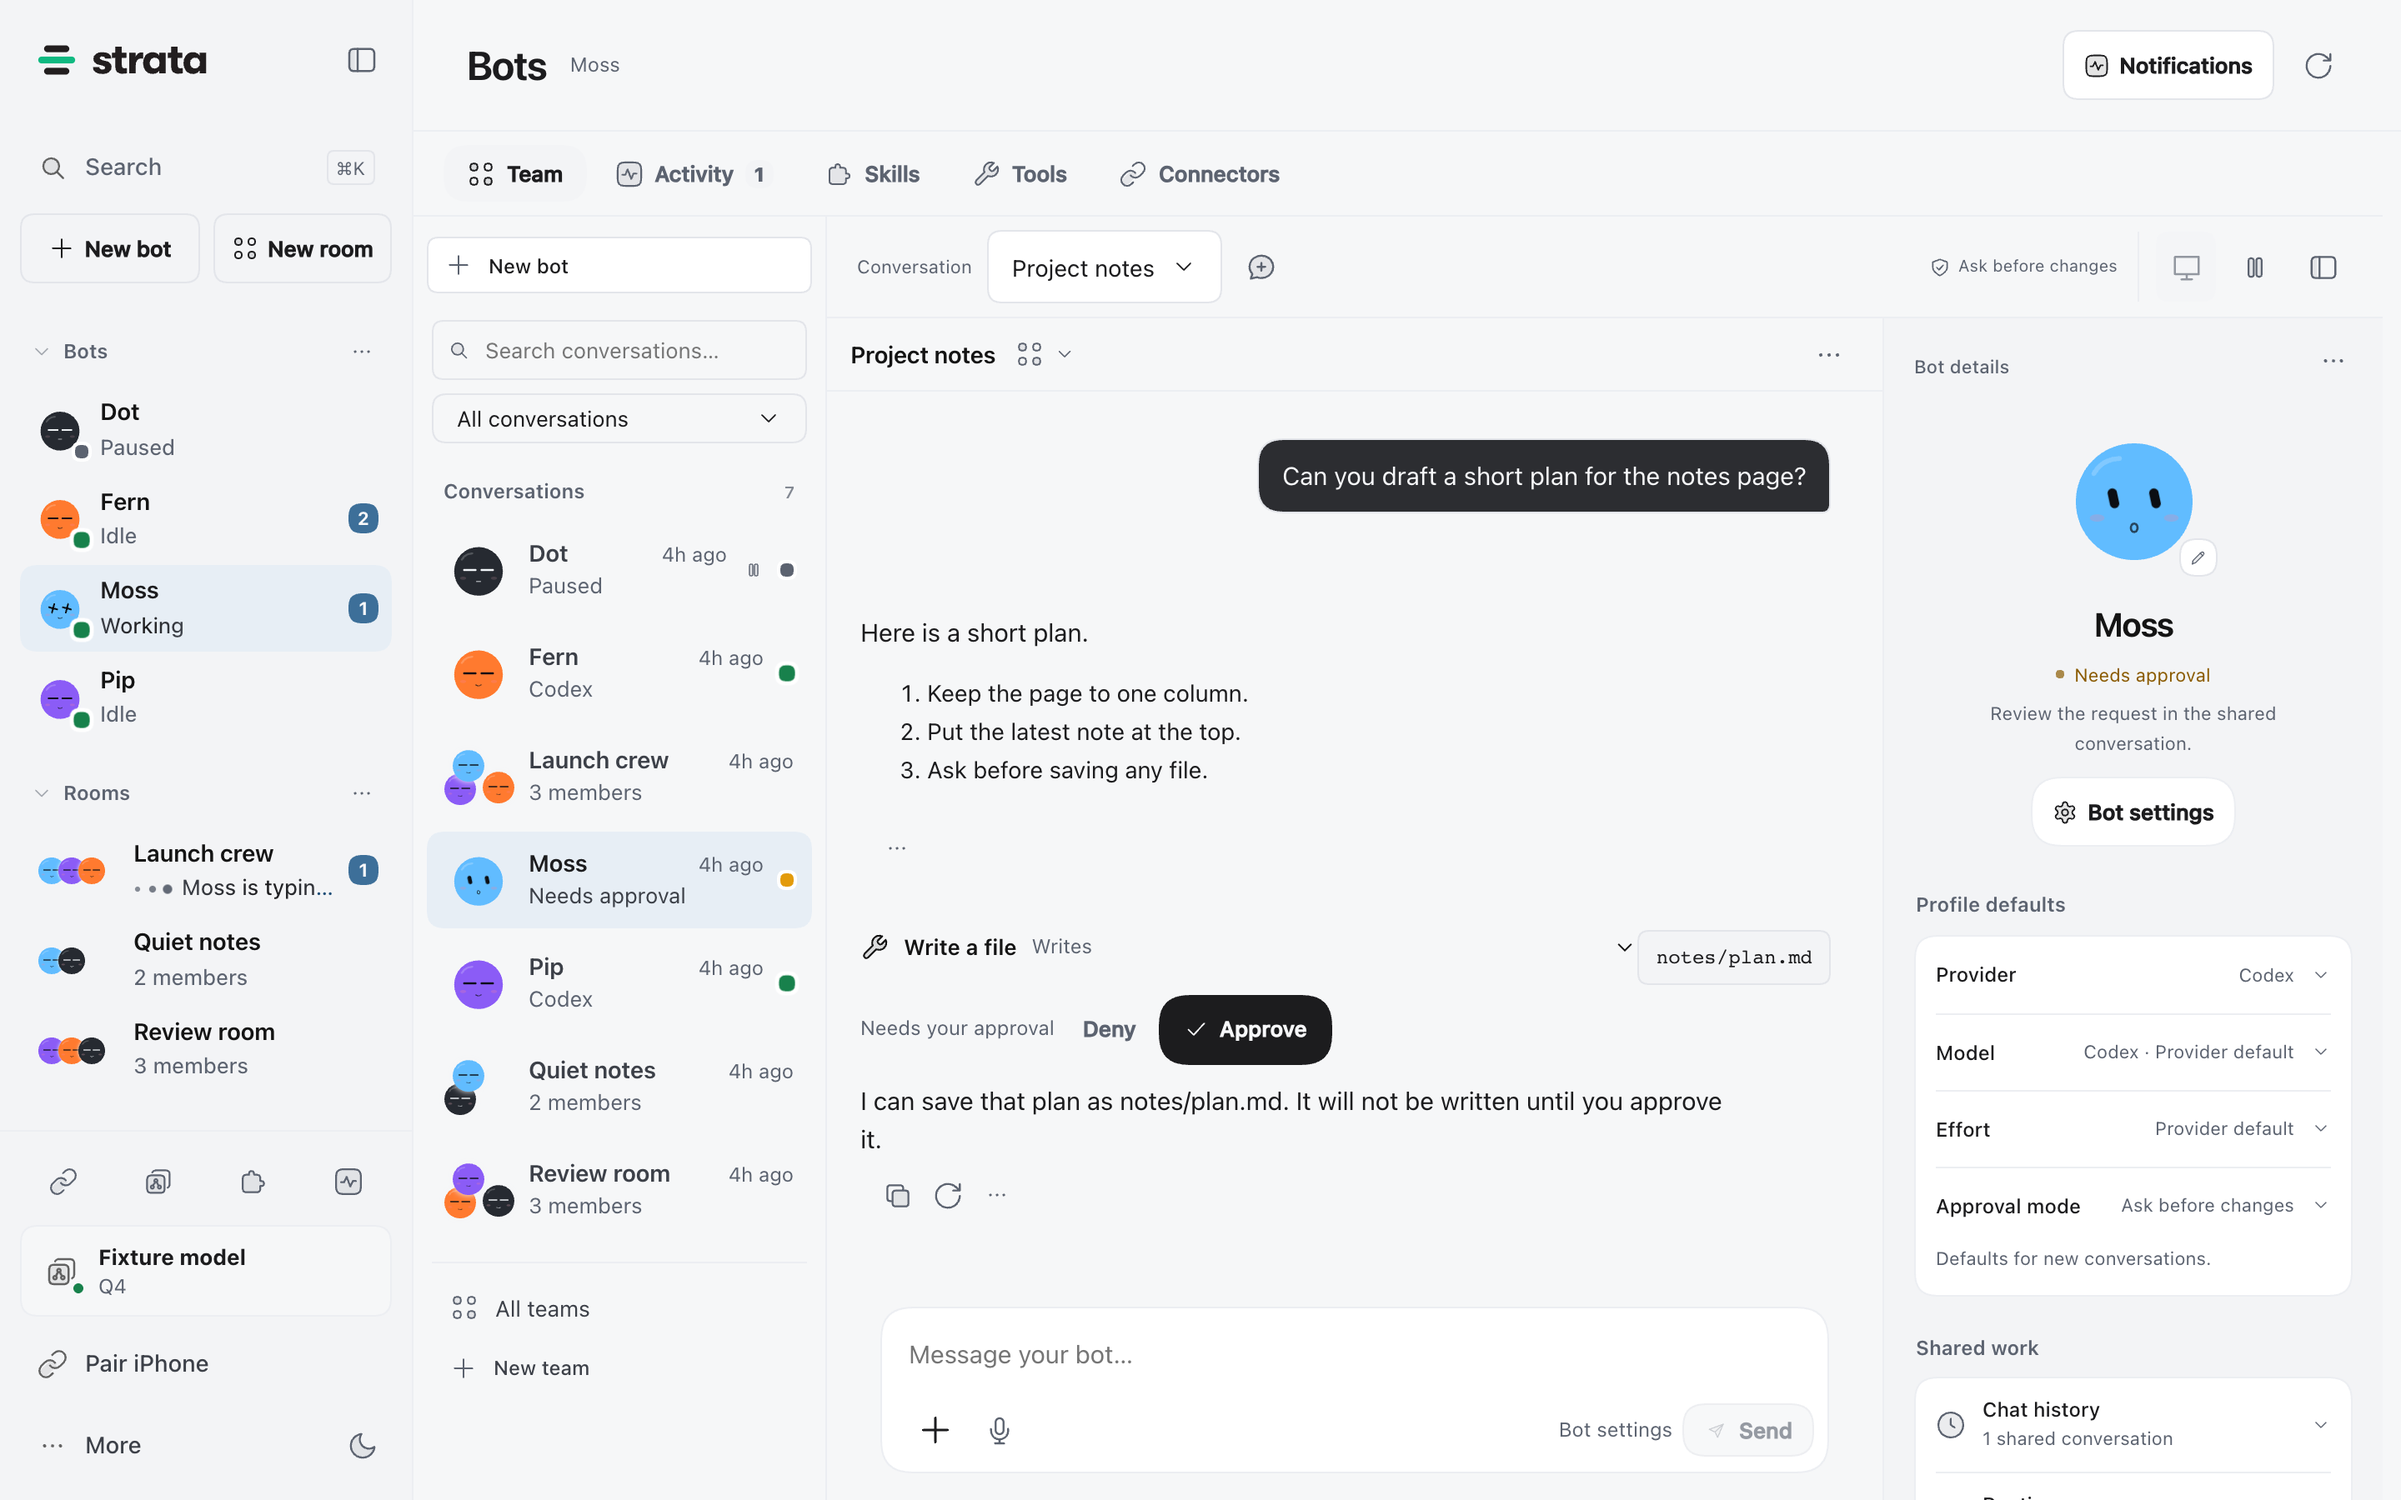
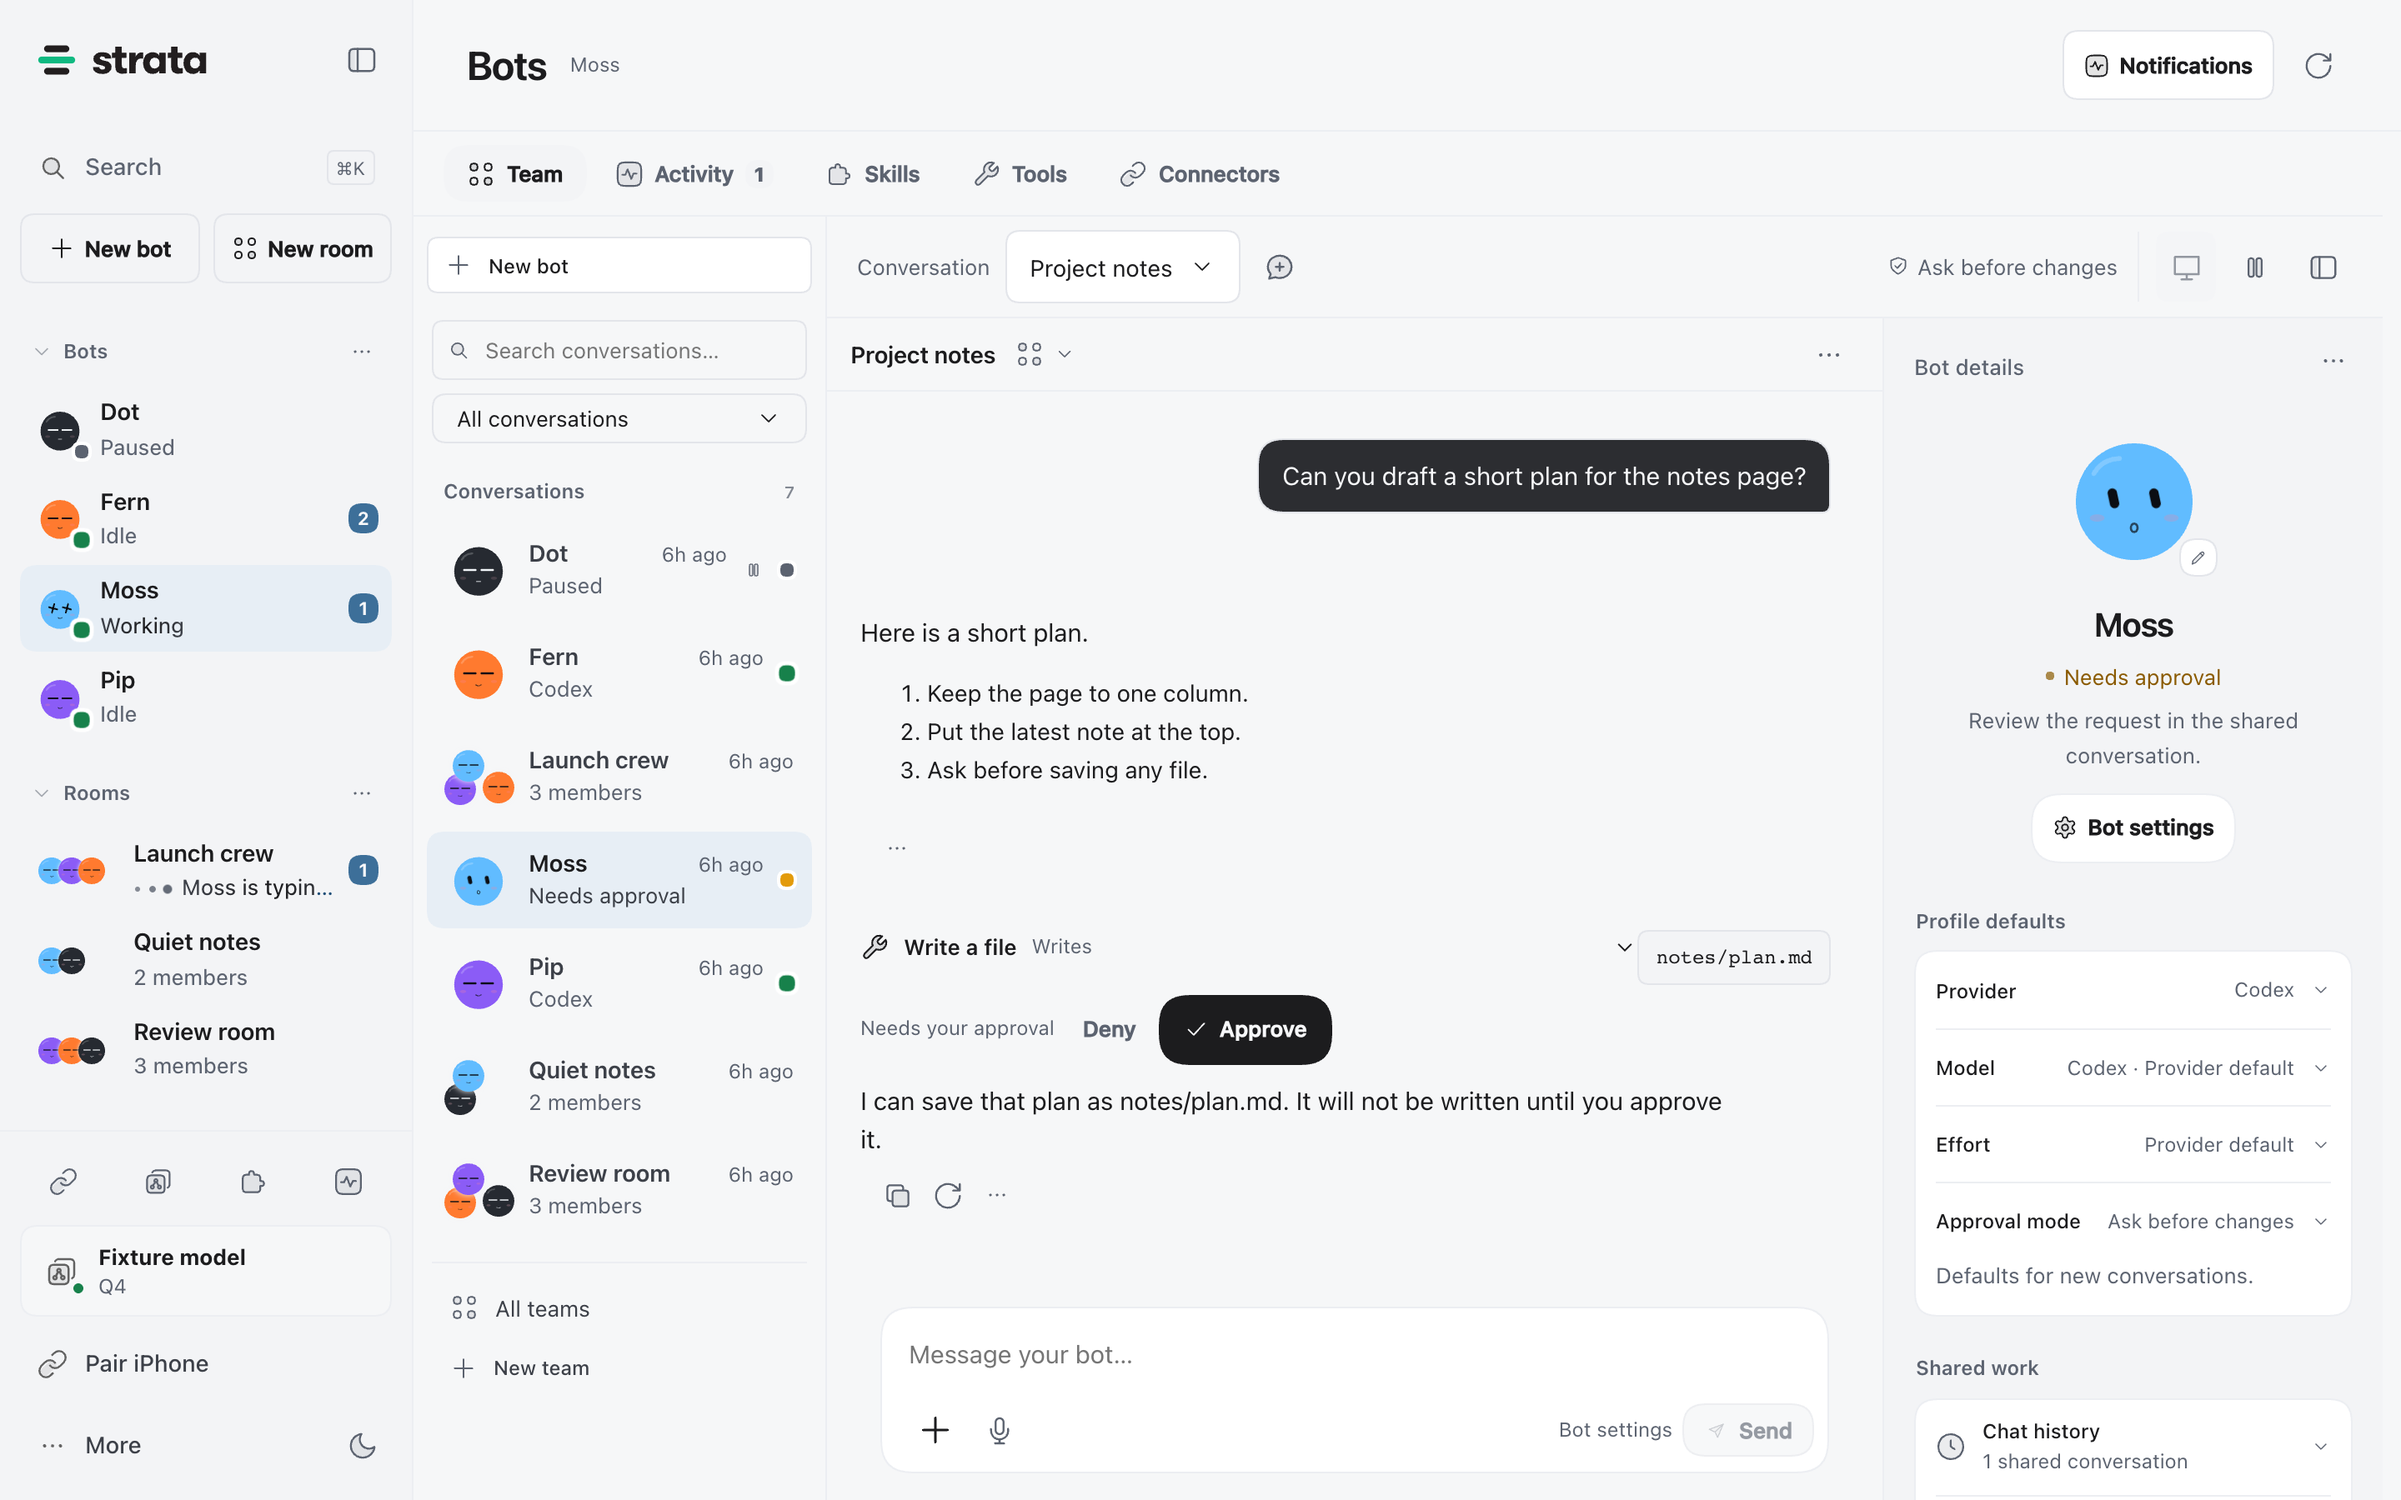
[GUI] Calm the rest of the Bots screens
Apply the approved palette to Activity, Skills, Tools, Connectors, scheduled work, approvals, outputs, and team settings. Non-team Bots pages use one column so the roster no longer paints beside the content.

diff --git a/apps/host/src/styles/bots-calm.css b/apps/host/src/styles/bots-calm.css
@@ -1,7 +1,10 @@
-/* Calm Bots facelift. Tokens live on the app shell only while a Bots
-   screen is open, so Models, Monitor, and the contrast suite keep :root.
+/* Calm Bots facelift. Tokens live on the document while a Bots or
+   Connectors screen is open, so Models, Monitor, and the contrast
+   suite keep :root. Body-portaled dialogs inherit from html.
    No new motion. Focus outlines stay on the shared :focus-visible rule. */
 
+html:has(.bots-workspace),
+html:has(.connector-workspace),
 .app:has(.bots-workspace) {
   --st-bg: #f6f7f8;
   --st-surface: #ffffff;
@@ -24,8 +27,12 @@
   --st-action: #1c1c1e;
   --st-action-hover: #3a3d44;
   --st-action-ink: #f7f8fa;
+  --text-2: var(--st-ink-muted);
+  --line: var(--st-line-soft);
 }
 
+html[data-theme="dark"]:has(.bots-workspace),
+html[data-theme="dark"]:has(.connector-workspace),
 [data-theme="dark"] .app:has(.bots-workspace) {
   --st-bg: #0e0f12;
   --st-surface: #16171b;
@@ -48,6 +55,8 @@
   --st-action: #f5f6f8;
   --st-action-hover: #e4e6ea;
   --st-action-ink: #121316;
+  --text-2: var(--st-ink-muted);
+  --line: var(--st-line-soft);
 }
 
 /* Sidebar. Selection is a soft wash with the same ink as the page.
@@ -98,6 +107,14 @@
   background: transparent;
   padding: 12px 8px 16px;
   border-right: 1px solid var(--st-line-soft);
+}
+/* Team keeps the roster column. Other Bots pages use one column.
+   A zero-width first track still let the roster paint beside Activity. */
+.cua-bots-shell:not([data-list]) {
+  grid-template-columns: minmax(0, 1fr);
+}
+.cua-bots-shell:not([data-list]) > .cua-bots-sidebar {
+  display: none;
 }
 .cua-bots-sidebar h2 {
   margin: 20px 10px 8px;
@@ -543,4 +560,331 @@
 }
 .bot-room .bot-room-send:hover:not(:disabled) {
   background: var(--st-action-hover);
+}
+
+/* Activity, skills, tools, and personal work. Same card rhythm as team cards. */
+.bots-workspace .bots-activity-tabs {
+  border-radius: 999px;
+  padding: 4px;
+}
+.bots-workspace .bots-activity-tabs button {
+  border-radius: 999px;
+  font-size: 13px;
+}
+.bots-workspace .bots-activity-card strong,
+.bots-workspace .bots-capability-row h3,
+.bots-workspace .bots-section-heading h3,
+.bots-workspace .bots-tool-intro strong,
+.bots-workspace .bot-harness-actions h3 {
+  font-size: 16px;
+  font-weight: 650;
+  letter-spacing: -0.02em;
+}
+.bots-workspace .bots-state,
+.bots-workspace .bot-work-counts,
+.connector-workspace .bots-state,
+html:has(.bots-workspace) .dialog-surface .bots-state,
+html:has(.connector-workspace) .dialog-surface .bots-state {
+  font-size: 12px;
+}
+.bots-workspace .bots-capability-row small,
+.bots-workspace .bots-created-tool-meta,
+.bots-workspace .bots-tool-list small,
+.bots-workspace .bots-tool-intro p {
+  font-size: 13px;
+  line-height: 1.45;
+}
+.bots-workspace .bots-tool-intro {
+  border: 1px solid var(--st-line-soft);
+  border-radius: 16px;
+  padding: 20px;
+  background: var(--st-surface);
+  box-shadow: none;
+}
+.bots-workspace .cua-work-identity strong,
+.bots-workspace .cua-output-list strong {
+  font-size: 15px;
+  font-weight: 600;
+}
+.bots-workspace .cua-work-identity p,
+.bots-workspace .cua-work-state,
+.bots-workspace .cua-output-list p,
+.bots-workspace .cua-output-list > button > span {
+  font-size: 12px;
+}
+.bots-workspace .cua-output-list {
+  border-color: var(--st-line-soft);
+  border-radius: 16px;
+}
+.bots-workspace .bots-connection-row strong,
+.connector-workspace .bots-connection-row strong {
+  font-size: 14px;
+  font-weight: 600;
+}
+.bots-workspace .bots-connection-row small,
+.connector-workspace .bots-connection-row small {
+  font-size: 12px;
+}
+.bots-workspace .bots-connection-row[data-selected],
+.connector-workspace .bots-connection-row[data-selected] {
+  background: var(--st-accent-tint);
+  color: var(--st-ink);
+}
+
+/* Live supervision on Activity. Selection is a wash. Accent stays off the card edge. */
+.bots-workspace .bot-supervision-card {
+  border: 1px solid var(--st-line-soft);
+  border-radius: 16px;
+  padding: 20px;
+  background: var(--st-surface);
+  box-shadow: none;
+}
+.bots-workspace .bot-supervision-card[data-state="approval"] {
+  border-color: var(--st-line-soft);
+  background: var(--st-surface);
+}
+.bots-workspace .bot-supervision-heading h3 {
+  font-weight: 650;
+  letter-spacing: -0.03em;
+}
+.bots-workspace .bot-supervision-identity strong {
+  font-size: 15px;
+  font-weight: 600;
+}
+.bots-workspace .bot-supervision-eyebrow {
+  color: var(--st-ink-muted);
+}
+.bots-workspace .bot-supervision-eyebrow,
+.bots-workspace .bot-supervision-identity span,
+.bots-workspace .bot-supervision-state,
+.bots-workspace .bot-supervision-tool,
+.bots-workspace .bot-supervision-footer time,
+.bots-workspace .bot-supervision-filters b,
+.bots-workspace .bot-supervision-heading p:last-child {
+  font-size: 12px;
+}
+.bots-workspace .bot-supervision-filters button {
+  border-radius: 999px;
+  font-size: 13px;
+  background: transparent;
+}
+.bots-workspace .bot-supervision-filters button[aria-pressed="true"] {
+  color: var(--st-ink);
+  border-color: transparent;
+  background: var(--st-accent-tint);
+}
+
+/* Profile and toolbar labels inside the Bots shell. */
+.bots-workspace .cua-toolbar-label,
+.bots-workspace .cua-frozen-policy,
+.bots-workspace .cua-profile-menu > span,
+.bots-workspace .cua-readiness,
+.bots-workspace .cua-profile-identity .cua-profile-hint,
+.bots-workspace .cua-profile-row,
+.bots-workspace .cua-profile-note {
+  font-size: 13px;
+}
+.bots-workspace .cua-profile-row small,
+.bots-workspace .cua-profile-setting > span {
+  font-size: 12px;
+}
+
+/* Team room tabs and assigned work. */
+.bots-workspace .bot-room-tabs > button {
+  font-size: 13px;
+  font-weight: 550;
+}
+.bots-workspace .bot-work-task {
+  border: 1px solid var(--st-line-soft);
+  border-radius: 16px;
+  padding: 20px;
+  background: var(--st-surface);
+  box-shadow: none;
+}
+.bots-workspace .bot-work-task-heading h4,
+.bots-workspace .bot-workflow-card h4 {
+  font-size: 16px;
+  font-weight: 650;
+  letter-spacing: -0.02em;
+}
+.bots-workspace .bot-work-task p,
+.bots-workspace .bot-work-task-heading p {
+  font-size: 13px;
+  line-height: 1.45;
+}
+.bots-workspace .bot-work-group h4,
+.bots-workspace .bot-work-task-reason strong,
+.bots-workspace .bot-work-history > summary,
+.bots-workspace .bot-work-disclosure > summary,
+.bots-workspace .bot-work-disclosure > summary h3 {
+  font-size: 13px;
+}
+.bots-workspace .bot-work-task-evidence,
+.bots-workspace .bot-work-task-context {
+  font-size: 12px !important;
+}
+.bots-workspace .bot-task-evidence,
+html:has(.bots-workspace) .dialog-surface .bot-task-evidence {
+  border-radius: 16px;
+  padding: 20px;
+}
+.bots-workspace .bot-plan-members p {
+  color: var(--st-ink-muted);
+  font-size: 13px;
+  line-height: 1.45;
+}
+.bots-workspace .bot-plan-action {
+  border: 1px solid var(--st-line-soft);
+  border-radius: 16px;
+  background: var(--st-surface);
+}
+
+/* Workflow cards keep the quiet edge. The open step is a wash, not an accent rule. */
+.bots-workspace .bot-workflow-toolbar strong,
+.bots-workspace .bot-workflow-latest,
+.bots-workspace .bot-workflow-inspector nav > button,
+.bots-workspace .bot-workflow-checks strong,
+.bots-workspace .bot-workflow-goal,
+.bots-workspace .bot-workflow-stage,
+.bots-workspace .bot-workflow-card-heading > small {
+  font-size: 13px;
+}
+.bots-workspace .bot-workflow-toolbar small,
+.bots-workspace .bot-workflow-state,
+.bots-workspace .bot-workflow-inspector nav small,
+.bots-workspace .bot-workflow-details header p,
+.bots-workspace .bot-workflow-rail strong,
+.bots-workspace .bot-workflow-rail small,
+.bots-workspace .bot-workflow-rail li > span,
+.bots-workspace .bot-workflow-checks p,
+.bots-workspace .bot-workflow-checkpoints p,
+.bots-workspace .bot-workflow-plan p,
+.bots-workspace .bot-workflow-plan li,
+.bots-workspace .bot-workflow-check,
+.bots-workspace .bot-workflow-plan summary,
+.bots-workspace .bot-workflow-checkpoints summary,
+.bots-workspace .bot-workflow-checkpoints strong,
+.bots-workspace .bot-workflow-checkpoints small,
+.bots-workspace .bot-workflow-create .input-field small {
+  font-size: 12px;
+}
+.bots-workspace .bot-workflow-card,
+.bots-workspace .bot-workflow-checks > li,
+.bots-workspace .bot-workflow-plan,
+.bots-workspace .bot-workflow-checkpoints > li {
+  border-radius: 16px;
+  border-color: var(--st-line-soft);
+  padding: 20px;
+}
+.bots-workspace .bot-workflow-inspector nav > button[aria-current="true"] {
+  border-color: transparent;
+  background: var(--st-accent-tint);
+  color: var(--st-ink);
+}
+
+/* Team settings and other Bots dialogs. Pills stay on the dialog, not the app sidebar. */
+html:has(.bots-workspace) .bot-team-settings-section,
+html:has(.bots-workspace) .bot-team-member-briefing {
+  padding: 20px;
+  border: 1px solid var(--st-line-soft);
+  border-radius: 16px;
+  background: var(--st-surface);
+}
+html:has(.bots-workspace) .bot-team-settings-heading h3,
+html:has(.bots-workspace) .bot-team-delete h3 {
+  font-size: 16px;
+  font-weight: 650;
+  letter-spacing: -0.02em;
+}
+html:has(.bots-workspace) .bot-team-settings-heading p,
+html:has(.bots-workspace) .bot-team-computer-note p,
+html:has(.bots-workspace) .bot-team-delete p,
+html:has(.bots-workspace) .bot-team-public-instructions,
+html:has(.bots-workspace) .bot-team-member-note {
+  font-size: 13px;
+  line-height: 1.5;
+}
+html:has(.bots-workspace) .dialog-surface .st-btn--primary:not(.st-btn--icon),
+html:has(.bots-workspace) .dialog-surface .st-btn--secondary:not(.st-btn--icon),
+html:has(.connector-workspace) .dialog-surface .st-btn--primary:not(.st-btn--icon),
+html:has(.connector-workspace) .dialog-surface .st-btn--secondary:not(.st-btn--icon),
+.connector-workspace .st-btn--primary:not(.st-btn--icon),
+.connector-workspace .st-btn--secondary:not(.st-btn--icon) {
+  border-radius: 999px;
+}
+html:has(.bots-workspace) .dialog-surface .st-btn--secondary:not(.st-btn--icon),
+html:has(.connector-workspace) .dialog-surface .st-btn--secondary:not(.st-btn--icon),
+.connector-workspace .st-btn--secondary:not(.st-btn--icon) {
+  border-color: var(--st-line-soft);
+  background: var(--st-surface);
+}
+
+/* Standalone Connectors. The Bots tab leaves the workspace for this screen. */
+.connector-workspace {
+  --connector-radius: 16px;
+}
+.connector-workspace .connector-heading h2 {
+  font-weight: 650;
+  letter-spacing: -0.03em;
+}
+.connector-workspace .connector-eyebrow,
+.connector-workspace .connector-method,
+.connector-workspace .connector-gallery-meta,
+.connector-workspace .connector-discover-note p,
+.connector-workspace .connector-gallery-more p,
+.connector-workspace .connector-service-card-bottom small,
+.connector-workspace .connector-view-switch button > span,
+.connector-workspace .connector-setup-identity span:not(.connector-service-mark),
+.connector-workspace .connector-advanced-menu > summary {
+  font-size: 12px;
+}
+.connector-workspace .connector-eyebrow {
+  color: var(--st-ink-muted);
+  letter-spacing: 0;
+}
+.connector-workspace .connector-heading p,
+.connector-workspace .connector-service-card > p,
+.connector-workspace .connector-key-intro p,
+.connector-workspace .connector-setup-note {
+  font-size: 13px;
+  line-height: 1.55;
+}
+.connector-workspace .connector-service-card h3 {
+  font-size: 16px;
+  font-weight: 650;
+  letter-spacing: -0.02em;
+}
+.connector-workspace .connector-service-card {
+  border-color: var(--st-line-soft);
+  box-shadow: none;
+}
+.connector-workspace .connector-service-card:hover {
+  border-color: var(--st-line);
+  box-shadow: none;
+}
+.connector-workspace .connector-view-switch {
+  border-radius: 999px;
+  box-shadow: none;
+}
+.connector-workspace .connector-view-switch button {
+  border-radius: 999px;
+  font-size: 13px;
+}
+.connector-workspace .connector-view-switch button[aria-pressed="true"] {
+  box-shadow: none;
+  color: var(--st-ink);
+}
+.connector-workspace .connector-category-filter button {
+  border-radius: 999px;
+  font-size: 13px;
+}
+.connector-workspace .connector-category-filter button[aria-pressed="true"] {
+  background: var(--st-accent-tint);
+  border-color: transparent;
+  color: var(--st-ink);
+}
+.connector-workspace .connector-advanced-menu > div {
+  border-radius: 16px;
+  box-shadow: none;
+  border-color: var(--st-line-soft);
 }
